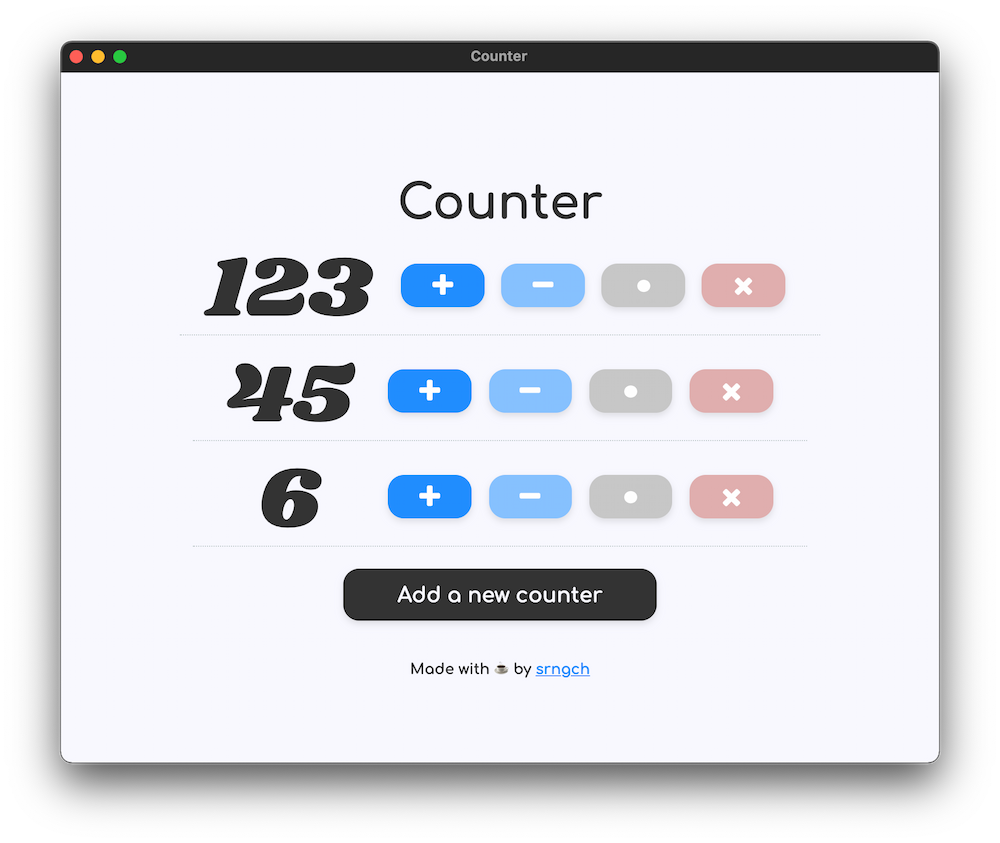
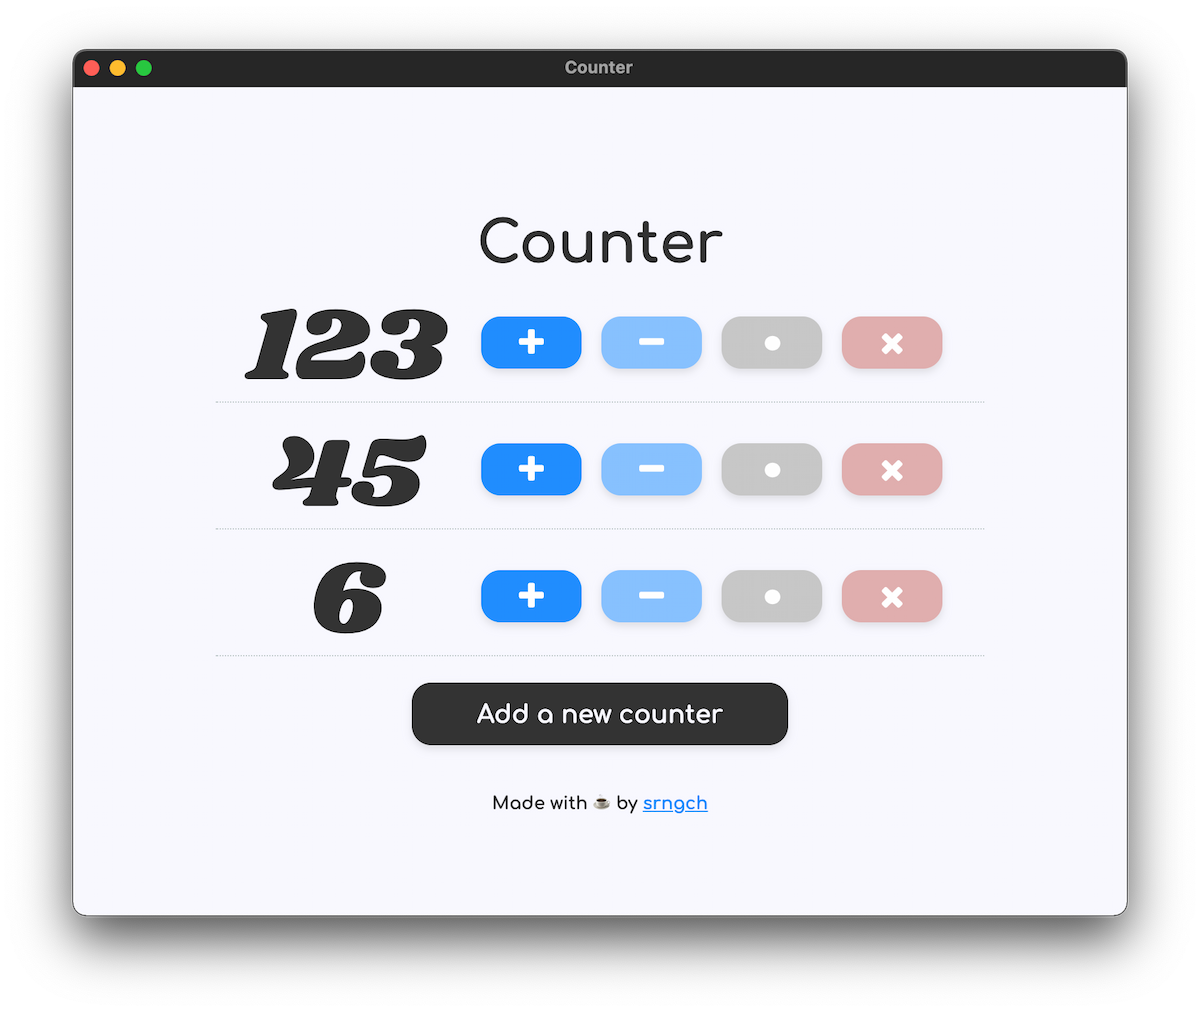
update

diff --git a/dist/css/style.css b/dist/css/style.css
@@ -79,6 +79,7 @@ i {
 }
 
 .counter-wrapper {
+	width: 100%;
 	height: 5rem;
 	display: flex;
 	justify-content: center;
@@ -93,6 +94,7 @@ i {
 }
 
 .counter-value {
+	flex: auto;
 	margin-left: 1.5rem;
 	margin-right: 0.25em;
 	font-family: 'Shrikhand', cursive;

diff --git a/src/css/style.css b/src/css/style.css
@@ -76,6 +76,7 @@ i {
 }
 
 .counter-wrapper {
+	width: 100%;
 	height: 5rem;
 	display: flex;
 	justify-content: center;
@@ -90,6 +91,7 @@ i {
 }
 
 .counter-value {
+	flex: auto;
 	margin-left: 1.5rem;
 	margin-right: 0.25em;
 	font-family: 'Shrikhand', cursive;

diff --git a/readme.md b/readme.md
@@ -2,6 +2,9 @@
 
 A simple counter app for learning Class Syntax in vanilla JavaScript.
 
+## Deployment
+[https://srngch.github.io/vanilla-js-counter/](https://srngch.github.io/vanilla-js-counter/)
+
 ## Requirements Specification
 - Make a `Counter` class with a separate file module
 - Create multiple counters instance and render them on the screen
@@ -17,10 +20,10 @@ A simple counter app for learning Class Syntax in vanilla JavaScript.
 - [x] Set meta tags including Open Graph
 - [x] Compile using the [Babel](https://babeljs.io/)
 - [x] Apply the webpack(js, css, assets)
+- [x] Style: match the buttons in columns regardless of the width of numbers
 - [ ] Apply [WebpackManifestPlugin](https://github.com/shellscape/webpack-manifest-plugin) for `.webmanifest` file
 - [ ] Apply [html-loader](https://webpack.js.org/loaders/html-loader/) & [html-webpack-plugin](https://webpack.js.org/plugins/html-webpack-plugin/)
 - [ ] Minimize
-
 
 ## Preview
 ![preview](./src/assets/preview.png)
